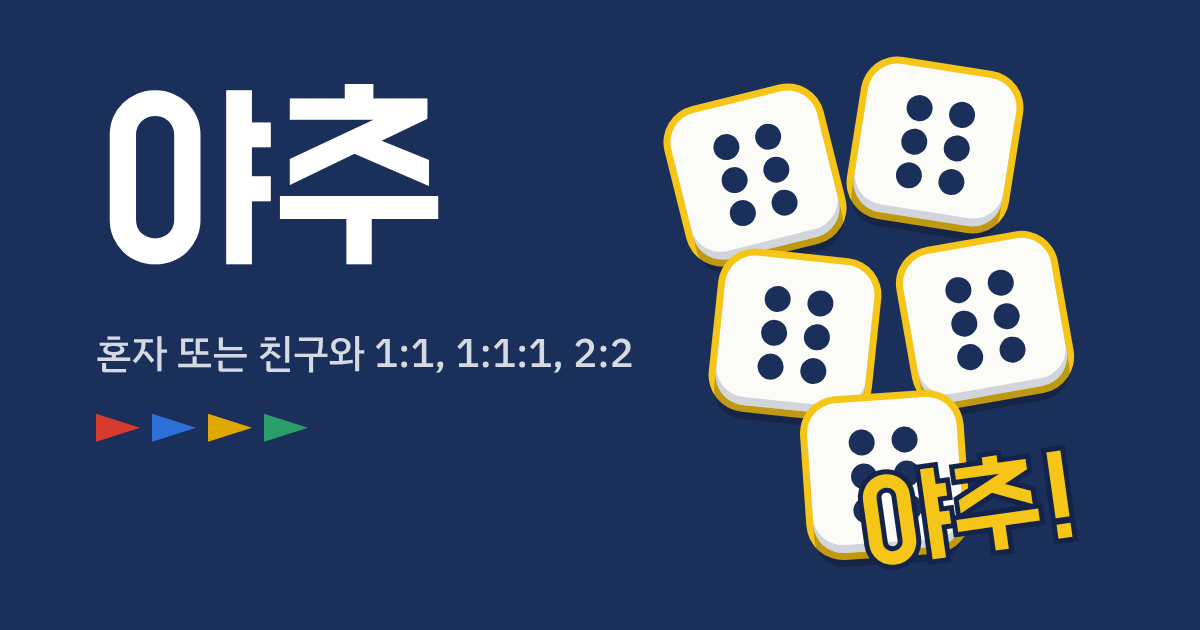
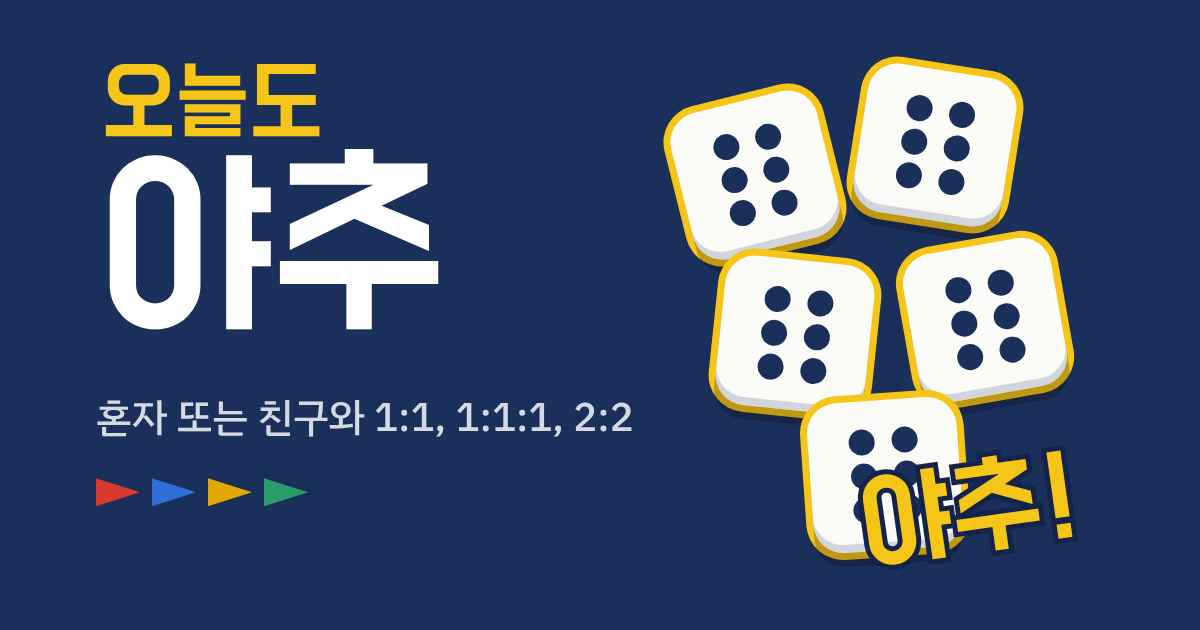
게임 이름을 '오늘도 야추'로 변경
- 탭 제목·홈 화면 저장 이름·공유 미리보기(og 이미지 포함)·친구 초대 문구·개인정보처리방침
- 첫 화면 로고: '오늘도' + '야추'

Claude-Session: https://claude.ai/code/session_01WrzSo55tsonunfpFP3i7Y8

Changed region(s): [[0.0617, 0.0905, 0.5242, 0.6032], [0.0617, 0.6333, 0.5242, 0.6937], [0.0617, 0.754, 0.2467, 0.8143]]

diff --git a/web/index.html b/web/index.html
@@ -3,26 +3,28 @@
 <head>
   <meta charset="utf-8">
   <meta name="viewport" content="width=device-width, initial-scale=1, viewport-fit=cover">
-  <title>야추 다이스</title>
-  <meta name="description" content="주사위 5개로 족보를 맞추는 야추. 혼자 하거나 친구와 1:1, 1:1:1, 2:2로 겨뤄요.">
+  <title>오늘도 야추</title>
+  <meta name="apple-mobile-web-app-title" content="오늘도 야추">
+  <meta name="application-name" content="오늘도 야추">
+  <meta name="description" content="오늘도 한 판, 주사위 5개로 족보를 맞추는 야추. 혼자 하거나 친구와 1:1, 1:1:1, 2:2로 겨뤄요.">
   <meta name="theme-color" content="#1b2f5b">
   <link rel="icon" href="favicon.svg" type="image/svg+xml">
   <link rel="apple-touch-icon" href="apple-touch-icon.png">
   <link rel="canonical" href="https://yahchoo.ohsangplay.com/">
   <!-- 공유 미리보기 (카카오톡, 메시지, SNS) -->
   <meta property="og:type" content="website">
-  <meta property="og:site_name" content="야추 다이스">
-  <meta property="og:title" content="야추 다이스">
-  <meta property="og:description" content="주사위 5개로 족보를 맞추는 야추. 혼자 하거나 친구와 1:1, 1:1:1, 2:2로 겨뤄요.">
+  <meta property="og:site_name" content="오늘도 야추">
+  <meta property="og:title" content="오늘도 야추">
+  <meta property="og:description" content="오늘도 한 판, 주사위 5개로 족보를 맞추는 야추. 혼자 하거나 친구와 1:1, 1:1:1, 2:2로 겨뤄요.">
   <meta property="og:url" content="https://yahchoo.ohsangplay.com/">
   <meta property="og:image" content="https://yahchoo.ohsangplay.com/og.png">
   <meta property="og:image:width" content="1200">
   <meta property="og:image:height" content="630">
-  <meta property="og:image:alt" content="야추 로고와 6이 나온 주사위 다섯 개">
+  <meta property="og:image:alt" content="오늘도 야추 로고와 6이 나온 주사위 다섯 개">
   <meta property="og:locale" content="ko_KR">
   <meta name="twitter:card" content="summary_large_image">
-  <meta name="twitter:title" content="야추 다이스">
-  <meta name="twitter:description" content="주사위 5개로 족보를 맞추는 야추. 혼자 하거나 친구와 1:1, 1:1:1, 2:2로 겨뤄요.">
+  <meta name="twitter:title" content="오늘도 야추">
+  <meta name="twitter:description" content="오늘도 한 판, 주사위 5개로 족보를 맞추는 야추. 혼자 하거나 친구와 1:1, 1:1:1, 2:2로 겨뤄요.">
   <meta name="twitter:image" content="https://yahchoo.ohsangplay.com/og.png">
   <link rel="preconnect" href="https://fonts.googleapis.com">
   <link rel="preconnect" href="https://fonts.gstatic.com" crossorigin>
@@ -35,7 +37,7 @@
   <main id="home" class="screen home" hidden>
     <div class="home-hero">
       <div class="account-bar" id="account-bar"></div>
-      <h1 class="logo">야추</h1>
+      <h1 class="logo"><span class="logo-pre">오늘도</span>야추</h1>
       <div class="home-dice" id="home-dice" aria-hidden="true"></div>
     </div>
     <div class="home-inner">

diff --git a/web/privacy.html b/web/privacy.html
@@ -3,7 +3,7 @@
 <head>
   <meta charset="utf-8">
   <meta name="viewport" content="width=device-width, initial-scale=1">
-  <title>개인정보처리방침 · 야추 다이스</title>
+  <title>개인정보처리방침 · 오늘도 야추</title>
   <link rel="icon" href="favicon.svg" type="image/svg+xml">
   <style>
     :root { --ink: #16213a; --soft: #5b6478; --bg: #f4f6f3; --paper: #fff; --line: #d9dee6; }
@@ -22,7 +22,7 @@
 <body>
 <main>
   <h1>개인정보처리방침</h1>
-  <p class="muted">야추 다이스 (https://yahchoo.ohsangplay.com) · 운영 오상플레이 · 시행일 2026년 10월 27일</p>
+  <p class="muted">오늘도 야추 (https://yahchoo.ohsangplay.com) · 운영 오상플레이 · 시행일 2026년 10월 27일</p>
 
   <h2>1. 모으는 정보</h2>
   <p>로그인 없이 게임을 할 때는 개인정보를 모으지 않아요. 구글로 로그인하면 아래 정보만 저장해요.</p>
@@ -73,7 +73,7 @@
     <li>2026년 10월 26일: 처음 만듦</li>
   </ul>
 
-  <p class="muted"><a href="./">야추 다이스로 돌아가기</a></p>
+  <p class="muted"><a href="./">오늘도 야추로 돌아가기</a></p>
 </main>
 </body>
 </html>

diff --git a/web/js/app.js b/web/js/app.js
@@ -1335,8 +1335,8 @@ function inviteLink() {
 $('copy-invite').addEventListener('click', async () => {
   const link = inviteLink();
   const mode = MODE_LABEL[room.view?.mode] ?? '';
-  const text = `야추 ${mode} 같이 해요! 방 코드 ${room.code}`;
-  const data = { title: '야추 다이스', text, url: link };
+  const text = `오늘도 야추 ${mode} 한 판 같이 해요! 방 코드 ${room.code}`;
+  const data = { title: '오늘도 야추', text, url: link };
   if (navigator.share && (!navigator.canShare || navigator.canShare(data))) {
     try {
       await navigator.share(data);

diff --git a/web/css/style.css b/web/css/style.css
@@ -810,3 +810,8 @@ th.now { box-shadow: inset 0 4px 0 var(--signal-yellow); }
   80% { transform: translate(2px, 0); }
 }
 .jeer-hammer .shout { left: -34px; top: -58px; }
+.logo-pre {
+  display: block; margin-bottom: .12em;
+  font-size: .36em; line-height: 1; letter-spacing: .02em;
+  color: var(--signal-yellow);
+}
